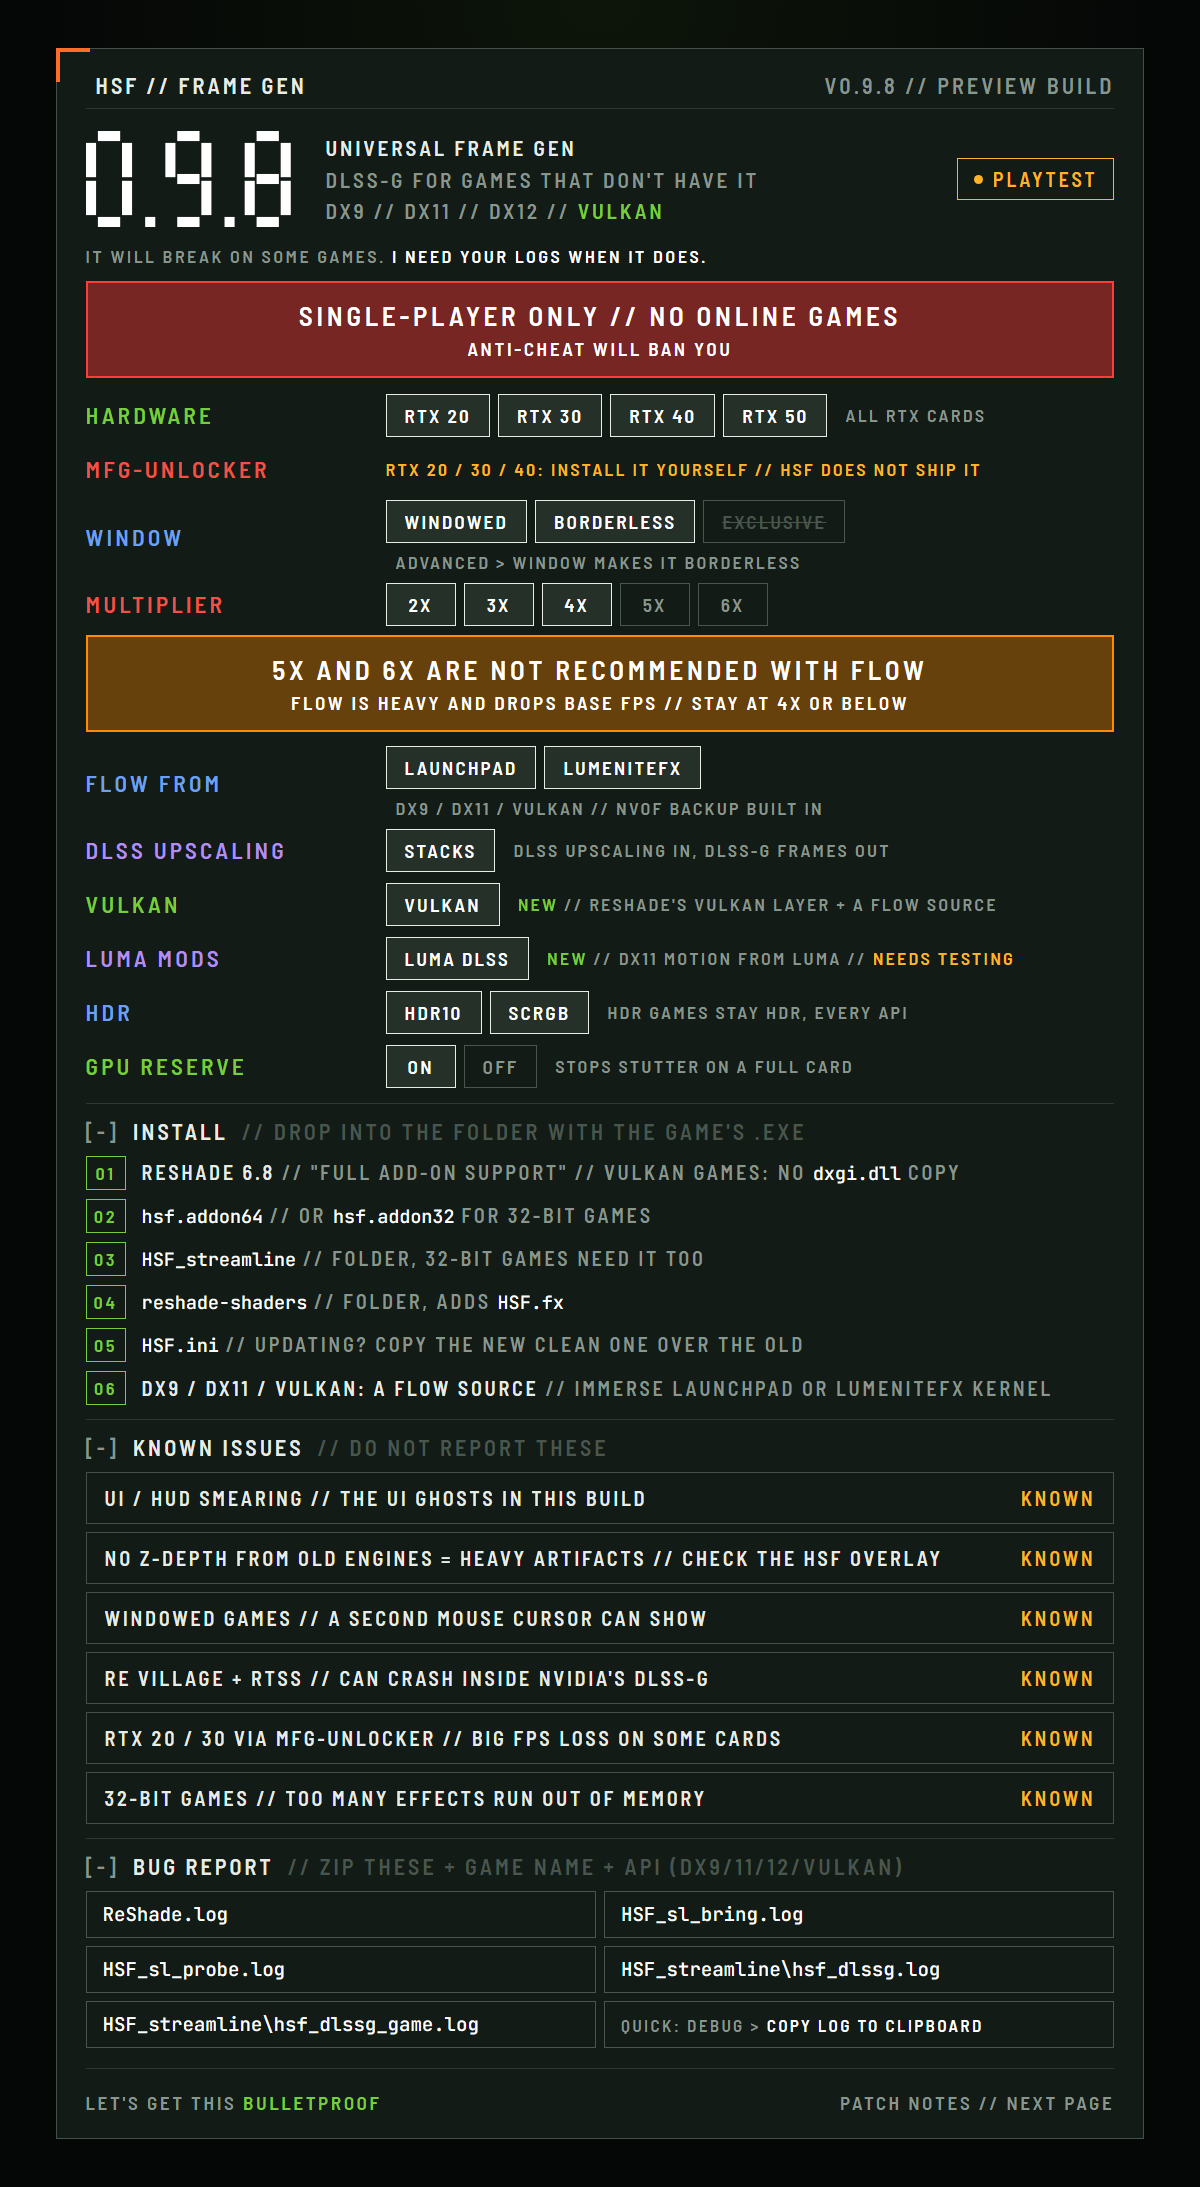
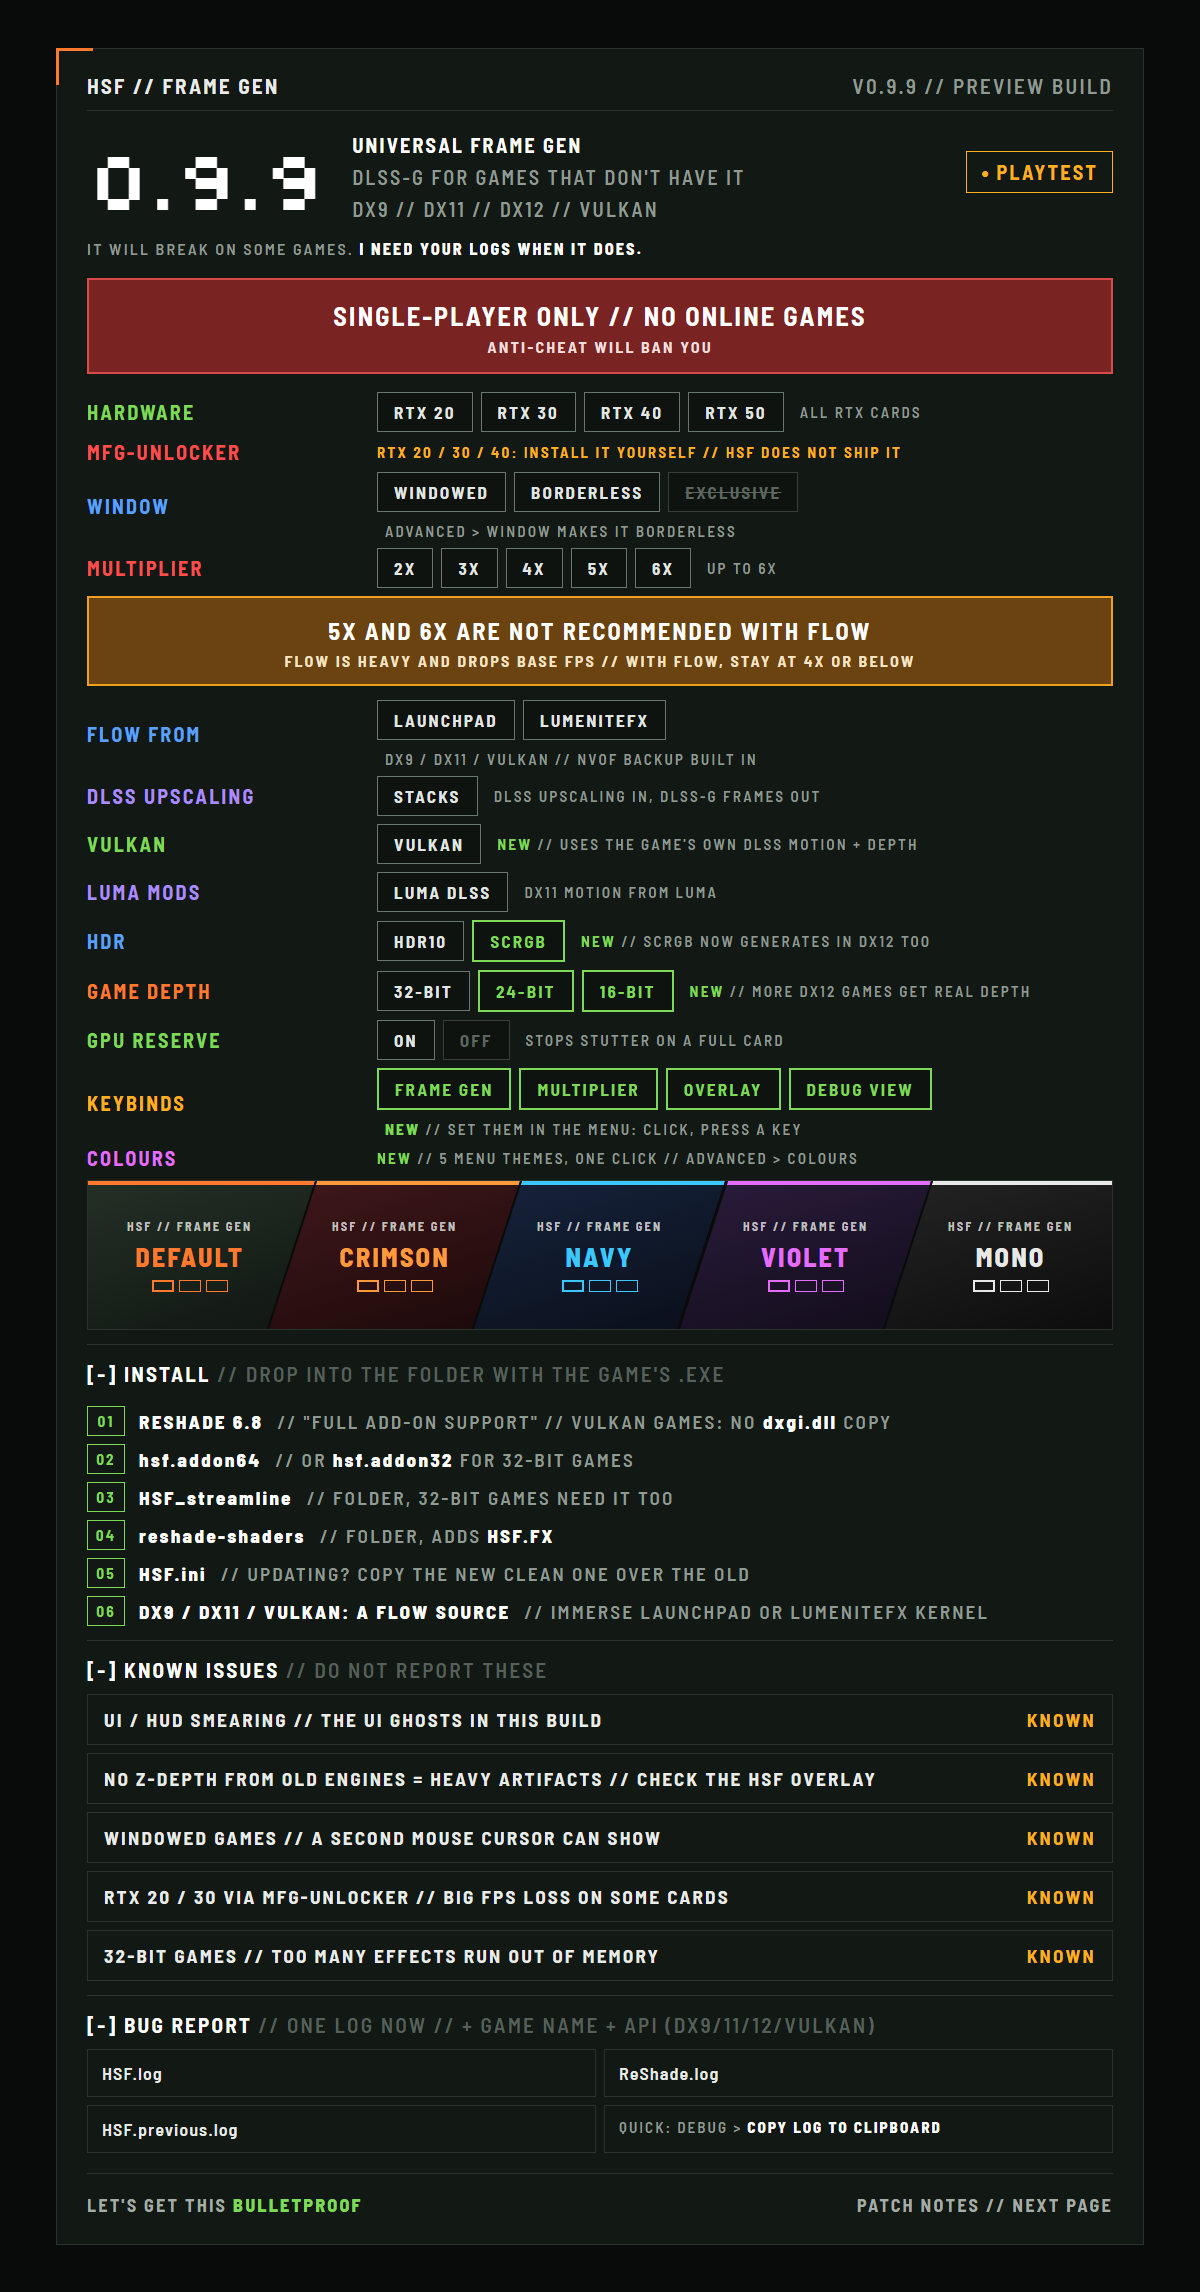
README: 0.9.9 posters and roadmap

diff --git a/README.md b/README.md
@@ -11,13 +11,13 @@ A ReShade add-on. Up to 6x. DirectX 9, 11, 12 and Vulkan. 32-bit and 64-bit. SDR
 </p>
 
 <p align="center">
-  <a href="docs/images/hsf-main.png"><img src="docs/images/hsf-main.png" width="32%" alt="HSF 0.9.8 at a glance: hardware, install steps, known issues, bug report"></a>
-  <a href="docs/images/hsf-patch.png"><img src="docs/images/hsf-patch.png" width="32%" alt="HSF 0.9.8 patch notes: Vulkan, Luma, HDR10 and fixes"></a>
-  <a href="docs/images/hsf-upcoming.png"><img src="docs/images/hsf-upcoming.png" width="32%" alt="HSF upcoming: version 2 and beyond"></a>
+  <a href="docs/images/hsf-main.png"><img src="docs/images/hsf-main.png" width="32%" alt="HSF 0.9.9 at a glance: hardware, features, install steps, known issues, bug report"></a>
+  <a href="docs/images/hsf-patch.png"><img src="docs/images/hsf-patch.png" width="32%" alt="HSF 0.9.9 patch notes: scRGB HDR, real depth, Vulkan motion, keybinds, colour themes and fixes"></a>
+  <a href="docs/images/hsf-roadmap.png"><img src="docs/images/hsf-roadmap.png" width="32%" alt="HSF roadmap: what comes in the next update and after"></a>
 </p>
 <p align="center"><sub>Click a card to see it full size.</sub></p>
 
-> **Status:** preview (0.9.8.8). HSF runs in a wide range of games across DX9, DX11, DX12 and Vulkan, from old 32-bit titles to path-traced ones, and in PS3 and PS5 emulators. If a game misbehaves, send the log: see [troubleshooting](docs/troubleshooting.md).
+> **Status:** preview (0.9.9). HSF runs in a wide range of games across DX9, DX11, DX12 and Vulkan, from old 32-bit titles to path-traced ones, and in PS3 and PS5 emulators. If a game misbehaves, send the log: see [troubleshooting](docs/troubleshooting.md).
 
 ## What you get
 
